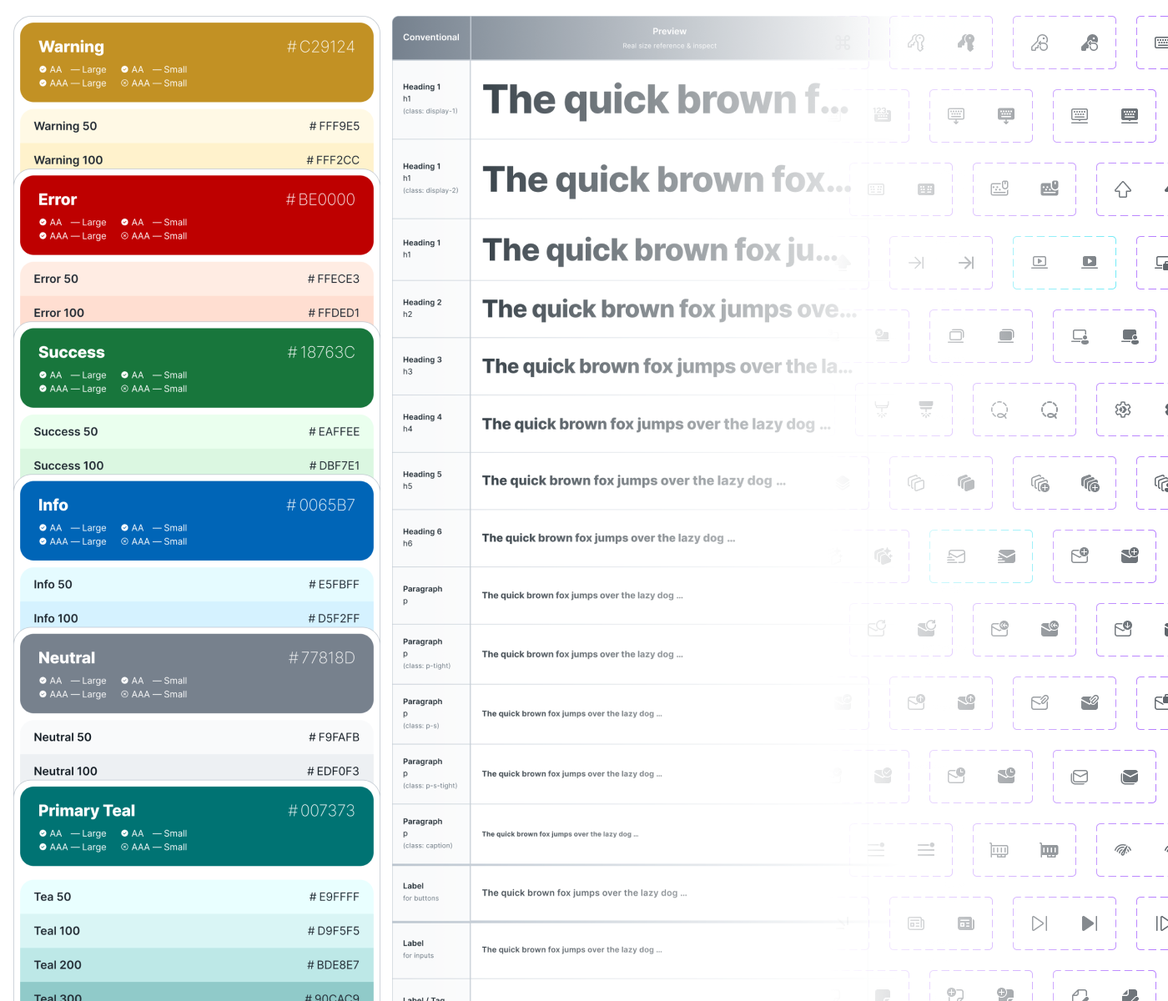
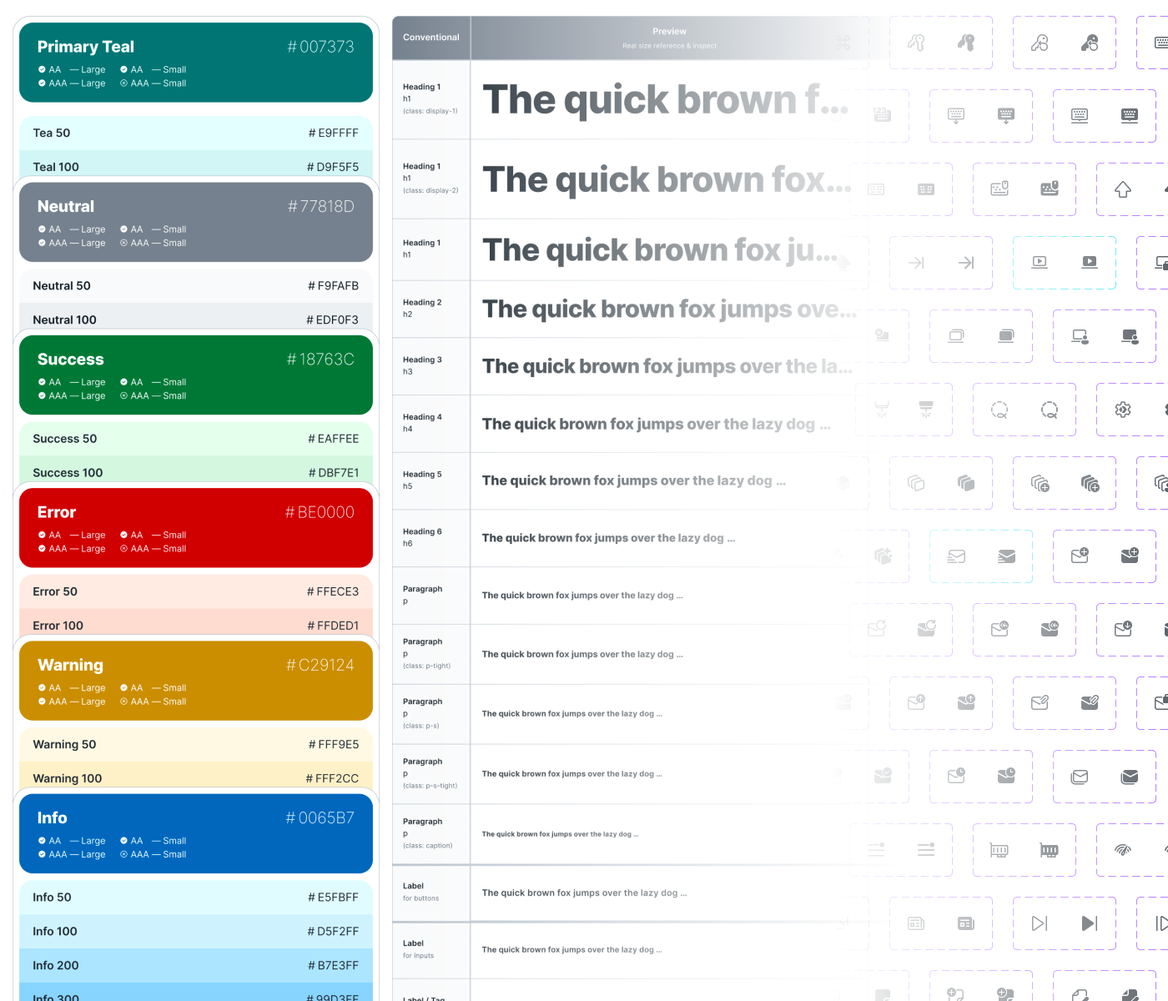
Add files via upload

Changed region(s): [[0.0, 0.0, 0.3379, 1.0]]

diff --git a/index.html b/index.html
@@ -3,7 +3,7 @@
 <head>
     <meta charset="UTF-8">
     <meta name="viewport" content="width=device-width, initial-scale=1.0">
-    <title>Rich Edwards - DesignOps Manager</title>
+    <title>Richard Edwards - DesignOps Manager</title>
     
     <!-- Tailwind CSS + DaisyUI -->
     <link href="https://cdn.jsdelivr.net/npm/daisyui@4.4.2/dist/full.min.css" rel="stylesheet" type="text/css" />
@@ -35,18 +35,20 @@
                     <li><a href="#about">About</a></li>
                     <li><a href="#experience">Experience</a></li>
                     <li><a href="#featuredworkflow">Featured Workflow</a></li>
-                    <li><a href="#portfolio">Portfolio</a></li>
+                    <li><a href="#dsportfolio">Design System Portfolio</a></li>
+                    <li><a href="#uxportfolio">UX Design Portfolio</a></li>
                     <li><a href="#contact">Contact</a></li>
                 </ul>
             </div>
-            <a class="btn btn-ghost text-xl font-bold">Rich Edwards</a>
+            <a href="#" class="btn btn-ghost text-xl font-bold" alt="Richard Edwards - Go to top of page" title="Go to top of page" onclick="window.scrollTo({top: 0, behavior: 'smooth'}); return false;">Richard Edwards</a>
         </div>
         <div class="navbar-center hidden lg:flex">
             <ul class="menu menu-horizontal px-1">
                 <li><a href="#about" class="hover:text-primary">About</a></li>
                 <li><a href="#experience" class="hover:text-primary">Experience</a></li>
                 <li><a href="#featuredworkflow" class="hover:text-primary">Featured Workflow</a></li>
-                <li><a href="#portfolio" class="hover:text-primary">Portfolio</a></li>
+                <li><a href="#dsportfolio" class="hover:text-primary">Design System Portfolio</a></li>
+                <li><a href="#uxportfolio" class="hover:text-primary">UX Design Portfolio</a></li>
                 <li><a href="#contact" class="hover:text-primary">Contact</a></li>
             </ul>
         </div>
@@ -66,7 +68,7 @@
                     </div>
                 </div>
                 <h1 class="text-5xl md:text-7xl font-bold mb-6">
-                    Rich Edwards
+                    Richard Edwards
                 </h1>
                 <p class="text-xl md:text-2xl mb-4 font-light">
                     DesignOps Manager | UX & Design Systems Leader
@@ -89,11 +91,11 @@
 
     <!-- About Section -->
     <section id="about" class="py-20 bg-base-100">
-        <div class="container mx-auto px-4">
+        <div class="max-w-6xl mx-auto px-4">
             <div class="text-center mb-16">
                 <h2 class="text-4xl font-bold mb-4">About Me</h2>
                 <p class="text-lg text-base-content/80 max-w-2xl mx-auto">
-                    Two decades of transforming design chaos into streamlined excellence
+                    Two decades of transforming fragmented design processes into streamlined excellence
                 </p>
             </div>
             
@@ -104,7 +106,7 @@
                             With over 20 years in the UX field, I've seen the evolution from individual designers working in silos to today's collaborative, system-driven approach. My expertise lies in building the bridges between creative vision and operational excellence.
                         </p>
                         <p class="text-lg leading-relaxed">
-                            I specialize in establishing design systems that don't just look good on paper, but actually get used. My approach focuses on creating frameworks that improve team efficiency while maintaining the design quality and consistency that users deserve.
+                            I specialise in establishing design systems that don't just look good on paper, but actually get used. My approach focuses on creating frameworks that improve team efficiency while maintaining the design quality and consistency that users deserve.
                         </p>
                     </div>
                     
@@ -140,8 +142,8 @@
                         <div class="flex items-start gap-3">
                             <div class="badge badge-accent badge-lg">✦</div>
                             <div>
-                                <h4 class="font-semibold">Process Optimization</h4>
-                                <p class="text-sm text-base-content/80">Streamlining workflows to maximize creativity and minimise friction</p>
+                                <h4 class="font-semibold">Process Optimisation</h4>
+                                <p class="text-sm text-base-content/80">Streamlining workflows to maximise creativity and minimise friction</p>
                             </div>
                         </div>
                         <div class="flex items-start gap-3">
@@ -159,7 +161,7 @@
 
     <!-- Experience Section -->
     <section id="experience" class="py-20 bg-base-200">
-        <div class="container mx-auto px-4">
+        <div class="max-w-6xl mx-auto px-4">
             <div class="text-center mb-16">
                 <h2 class="text-4xl font-bold mb-4">Experience Highlights</h2>
                 <p class="text-lg text-base-content/80 max-w-2xl mx-auto">
@@ -266,7 +268,7 @@
 
     <!-- Featured Workflow Section -->
     <section id="featuredworkflow" class="py-20 bg-base-100">
-        <div class="container mx-auto px-4">
+        <div class="max-w-6xl mx-auto px-4">
             <div class="text-center mb-16">
                 <h2 class="text-4xl font-bold mb-4">Featured Workflow</h2>
                 <p class="text-lg text-base-content/80 max-w-6xl mx-auto">
@@ -285,13 +287,13 @@
                                 <div class="badge badge-success text-white">Innovation</div><div class="badge badge-primary text-white">Breakthrough</div>
                             </h3>
                             <p class="text-base-content/80">
-                                Do organizations require bespoke design systems? While comprehensive design systems—built in Figma with foundational elements, component libraries, variables, and tokens—represent a significant investment, the answer is not necessarily.
+                                Do organisations require bespoke design systems? While comprehensive design systems—built in Figma with foundational elements, component libraries, variables, and tokens—represent a significant investment, the answer is not necessarily.
                                 <br><br>
                                 Rather than pursuing traditional custom design system development, I advocate for a more efficient approach that integrates artificial intelligence, Model Context Protocol (MCP), and intelligent design workflows.
                                 <br><br>
                                 This methodology delivers measurable advantages: reduced maintenance overhead, enhanced design consistency, automated workflows for repetitive tasks, and accelerated delivery of scalable designs, proofs of concept, and production-ready code across platforms and teams.
                                 <br><br>
-                                For organizations seeking to optimize costs, timelines, and resource allocation, I'd welcome the opportunity to discuss how this integrated approach can deliver tangible value to your operation.
+                                For organisations seeking to optimise costs, timelines, and resource allocation, I'd welcome the opportunity to discuss how this integrated approach can deliver tangible value to your operation.
                             </p>
                             <div class="card-actions justify-end">
                                 <div class="badge badge-outline">AI Integration</div>
@@ -404,7 +406,7 @@
                     <div class="card-body">
                         <h3 class="card-title">
                             UX Resources
-                            <div class="badge badge-success text-white">Playbooks and Documentation</div>
+                            <div class="badge badge-success text-white">Documentation</div>
                         </h3>
                         <p class="text-base-content/80">
                             Created how to guides, component usage guidelines, playbooks and accessibility standards.
@@ -417,31 +419,28 @@
                     </div>
                 </div>
             </div>
+        </div>
+    </section>
 
-                    <!-- Portfolio Gallery Section -->
-                    </div>
-                </div>
-            </section>
-        
-            <!-- Portfolio Section -->
-            <section id="portfolio" class="py-20 bg-base-200">
-                <div class="container mx-auto px-4">
-                    <div class="text-center mb-12">
-                <h2 class="text-4xl font-bold mb-4">Portfolio Gallery</h2>
+    <!-- Portfolio Section -->
+    <section id="dsportfolio" class="py-20 bg-base-200">
+        <div class="max-w-6xl mx-auto px-4">
+                <div class="text-center mb-12">
+                <h2 class="text-4xl font-bold mb-4">Design System Portfolio</h2>
                 <p class="text-lg text-base-content/80 max-w-6xl mx-auto">
                     Visual examples of my work across design systems, UX projects, and process improvements
                 </p>
             </div>
             
-            <div class="w-full max-w-[1400px] mx-auto space-y-12">
+            <div class="w-full max-w-[960px] mx-auto space-y-12">
                 <!-- Portfolio Image 1 -->
                 <div class="space-y-4">
                     <div class="text-center">
                         <h3 class="text-2xl font-bold mb-2">Design Principles</h3>
-                        <p class="text-base-content/80 max-w-6xl mx-auto">Created 6 design principles to guide the development of user-centered products.</p>
+                        <p class="text-base-content/80 max-w-6xl mx-auto">Created 6 design principles to guide the development of user-centred products.</p>
                     </div>
-                    <div class="group cursor-pointer">
-                        <div class="w-full h-[300px] md:h-[600px] lg:h-[1200px] rounded-xl overflow-hidden shadow-lg hover:shadow-xl transition-all duration-300 group-hover:scale-[1.01]">
+                    <div class="group">
+                        <div class="w-full rounded-xl overflow-hidden shadow-lg">
                             <img src="images/6designprinciples.png" alt="Button types and states - Design System Components showing primary, secondary, tertiary, ghost, and destructive button variants in default, hover, focused, and disabled states" class="w-full h-full object-cover" loading="lazy" />
                         </div>
                     </div>
@@ -453,8 +452,8 @@
                         <h3 class="text-2xl font-bold mb-2">Design System Foundations</h3>
                         <p class="text-base-content/80 max-w-6xl mx-auto">Foundations are the essential building blocks of a design system, including colours, typography, iconography, spacing, and layout.</p>
                     </div>
-                    <div class="group cursor-pointer">
-                        <div class="w-full h-[300px] md:h-[600px] lg:h-[1136px] rounded-xl overflow-hidden shadow-lg hover:shadow-xl transition-all duration-300 group-hover:scale-[1.01]">
+                    <div class="group">
+                        <div class="w-full rounded-xl overflow-hidden shadow-lg">
                             <img src="images/foundations.png" alt="Button types and states - Design System Components showing primary, secondary, tertiary, ghost, and destructive button variants in default, hover, focused, and disabled states" class="w-full h-full object-cover" loading="lazy" />
                         </div>
                     </div>
@@ -463,12 +462,12 @@
                 <!-- Portfolio Image 3 -->
                 <div class="space-y-4">
                     <div class="text-center">
-                        <h3 class="text-2xl font-bold mb-2">User Research Insights</h3>
-                        <p class="text-base-content/80 max-w-6xl mx-auto">Data visualisation and user journey mapping based on extensive research findings, informing design decisions and strategy.</p>
+                        <h3 class="text-2xl font-bold mb-2">Component Examples</h3>
+                        <p class="text-base-content/80 max-w-6xl mx-auto">Built with the Atomic Design Methodology, Atoms, molecules, organisms, templates, and pages</p>
                     </div>
-                    <div class="group cursor-pointer">
-                        <div class="w-full h-[300px] md:h-[600px] lg:h-[1200px] rounded-xl overflow-hidden shadow-lg hover:shadow-xl transition-all duration-300 group-hover:scale-[1.01]">
-                            <img src="images/portfolio-02.jpg" alt="Button types and states - Design System Components showing primary, secondary, tertiary, ghost, and destructive button variants in default, hover, focused, and disabled states" class="w-full h-full object-cover" loading="lazy" />
+                    <div class="group">
+                        <div class="w-full rounded-xl overflow-hidden shadow-lg">
+                            <img src="images/components-2.png" alt="Button types and states - Design System Components showing primary, secondary, tertiary, ghost, and destructive button variants in default, hover, focused, and disabled states" class="w-full h-full object-cover" loading="lazy" />
                         </div>
                     </div>
                 </div>
@@ -476,12 +475,12 @@
                 <!-- Portfolio Image 4 -->
                 <div class="space-y-4">
                     <div class="text-center">
-                        <h3 class="text-2xl font-bold mb-2">UX design KPS Dashboard - Built with AI (30 min)</h3>
-                        <p class="text-base-content/80 max-w-6xl mx-auto">Leveraged Claude to develop a comprehensive prompt for constructing a UX design dashboard tailored to KPS requirements. The dashboard effectively visualizes key performance metrics and actionable insights while adhering to the prescribed design system standards. Through iterative prompting, Claude successfully generated a production-ready proof of concept in approximately 30 minutes, demonstrating the efficiency of AI-assisted design workflows.</p>
+                        <h3 class="text-2xl font-bold mb-2">More Component Examples</h3>
+                        <p class="text-base-content/80 max-w-6xl mx-auto">Carefully crafted components keeping to brand, accessibility, and usability standards.</p>
                     </div>
-                    <div class="group cursor-pointer">
-                        <div class="w-full h-[300px] md:h-[600px] lg:h-[1136px] rounded-xl overflow-hidden shadow-lg hover:shadow-xl transition-all duration-300 group-hover:scale-[1.01]">
-                            <img src="images/ux-kpi-dashboard.png" alt="Button types and states - Design System Components showing primary, secondary, tertiary, ghost, and destructive button variants in default, hover, focused, and disabled states" class="w-full h-full object-cover" loading="lazy" />
+                    <div class="group">
+                        <div class="w-full rounded-xl overflow-hidden shadow-lg">
+                            <img src="images/components-1.png" alt="Button types and states - Design System Components showing primary, secondary, tertiary, ghost, and destructive button variants in default, hover, focused, and disabled states" class="w-full h-full object-cover" loading="lazy" />
                         </div>
                     </div>
                 </div>
@@ -489,15 +488,12 @@
                 <!-- Portfolio Image 5 -->
                 <div class="space-y-4">
                     <div class="text-center">
-                        <h3 class="text-2xl font-bold mb-2">Design System Documentation</h3>
-                        <p class="text-base-content/80 max-w-6xl mx-auto">Comprehensive documentation and usage guidelines ensuring consistent implementation across teams and products.</p>
+                        <h3 class="text-2xl font-bold mb-2">Extensive Resources</h3>
+                        <p class="text-base-content/80 max-w-6xl mx-auto">Comprehensive how-to guides, playbooks, tooling and resources.</p>
                     </div>
-                    <div class="group cursor-pointer">
-                        <div class="w-full h-[300px] md:h-[600px] lg:h-[1200px] bg-gradient-to-br from-warning/20 to-warning/10 rounded-xl overflow-hidden shadow-lg hover:shadow-xl transition-all duration-300 group-hover:scale-[1.01]">
-                            <div class="w-full h-full flex items-center justify-center text-base-content/60 text-2xl font-medium">
-                                <span class="sr-only">Button Design System</span>
-                                Portfolio Image 5
-                            </div>
+                    <div class="group">
+                        <div class="w-full rounded-xl overflow-hidden shadow-lg">
+                            <img src="images/designops-site2.png" alt="Button types and states - Design System Components showing primary, secondary, tertiary, ghost, and destructive button variants in default, hover, focused, and disabled states" class="w-full h-full object-cover" loading="lazy" />
                         </div>
                     </div>
                 </div>
@@ -505,15 +501,12 @@
                 <!-- Portfolio Image 6 -->
                 <div class="space-y-4">
                     <div class="text-center">
-                        <h3 class="text-2xl font-bold mb-2">DesignOps Process Framework</h3>
-                        <p class="text-base-content/80 max-w-6xl mx-auto">Streamlined operational workflows and governance structures that scale design efficiency across multiple product teams.</p>
+                        <h3 class="text-2xl font-bold mb-2">Design System Documentation</h3>
+                        <p class="text-base-content/80 max-w-6xl mx-auto">Documentation and usage guidelines, best practices, component anatomy and examples.</p>
                     </div>
-                    <div class="group cursor-pointer">
-                        <div class="w-full h-[300px] md:h-[600px] lg:h-[1200px] bg-gradient-to-br from-error/20 to-error/10 rounded-xl overflow-hidden shadow-lg hover:shadow-xl transition-all duration-300 group-hover:scale-[1.01]">
-                            <div class="w-full h-full flex items-center justify-center text-base-content/60 text-2xl font-medium">
-                                <span class="sr-only">Design Operations Framework</span>
-                                Portfolio Image 6
-                            </div>
+                    <div class="group">
+                        <div class="w-full rounded-xl overflow-hidden shadow-lg">
+                            <img src="images/designops-site.png" alt="Button types and states - Design System Components showing primary, secondary, tertiary, ghost, and destructive button variants in default, hover, focused, and disabled states" class="w-full h-full object-cover" loading="lazy" />
                         </div>
                     </div>
                 </div>
@@ -521,69 +514,70 @@
                 <!-- Portfolio Image 7 -->
                 <div class="space-y-4">
                     <div class="text-center">
-                        <h3 class="text-2xl font-bold mb-2">Mobile Interface Design</h3>
-                        <p class="text-base-content/80 max-w-6xl mx-auto">Responsive mobile application interfaces optimised for touch interaction and cross-platform consistency.</p>
+                        <h3 class="text-2xl font-bold mb-2">Manager Resources</h3>
+                        <p class="text-base-content/80 max-w-6xl mx-auto">Everything managers need to find great talent, job descriptions, and interview guides, onboarding and offboarding guides.</p>
                     </div>
-                    <div class="group cursor-pointer">
-                        <div class="w-full h-[300px] md:h-[600px] lg:h-[1200px] bg-gradient-to-br from-primary/15 to-secondary/15 rounded-xl overflow-hidden shadow-lg hover:shadow-xl transition-all duration-300 group-hover:scale-[1.01]">
-                            <div class="w-full h-full flex items-center justify-center text-base-content/60 text-2xl font-medium">
-                                <span class="sr-only">Mobile App Interface</span>
-                                Portfolio Image 7
-                            </div>
+                    <div class="group">
+                        <div class="w-full rounded-xl overflow-hidden shadow-lg">
+                            <img src="images/manager-resources.png" alt="Button types and states - Design System Components showing primary, secondary, tertiary, ghost, and destructive button variants in default, hover, focused, and disabled states" class="w-full h-full object-cover" loading="lazy" />
                         </div>
                     </div>
                 </div>
-                
-                <!-- Portfolio Image 8 -->
-                <div class="space-y-4">
+
+            </section>
+
+            <!-- UX Design Portfolio Section with different background -->
+            <section id="uxportfolio" class="py-20 bg-base-100">
+                <div class="max-w-6xl mx-auto px-4">
+                    <div class="text-center mb-12">
+                        <h2 class="text-4xl font-bold mb-4">UX Design Portfolio</h2>
+                        <p class="text-lg text-base-content/80 max-w-6xl mx-auto">
+                            Visual examples of my work across UX design projects, user research, and usability testing
+                        </p>
+                    </div>
+                    
+                    <div class="w-full max-w-[960px] mx-auto space-y-12">
+                        <!-- Portfolio Image 8 -->
+                        <div class="space-y-4">
                     <div class="text-center">
-                        <h3 class="text-2xl font-bold mb-2">Accessibility Standards</h3>
-                        <p class="text-base-content/80 max-w-6xl mx-auto">WCAG compliance guidelines and inclusive design patterns ensuring accessibility across all user interactions and content.</p>
+                        <h3 class="text-2xl font-bold mb-2">People HR Smart Menu</h3>
+                        <p class="text-base-content/80 max-w-6xl mx-auto">A smart menu design for People HR, enhancing user navigation and accessibility.</p>
                     </div>
-                    <div class="group cursor-pointer">
-                        <div class="w-full h-[300px] md:h-[600px] lg:h-[1200px] bg-gradient-to-br from-accent/15 to-info/15 rounded-xl overflow-hidden shadow-lg hover:shadow-xl transition-all duration-300 group-hover:scale-[1.01]">
-                            <div class="w-full h-full flex items-center justify-center text-base-content/60 text-2xl font-medium">
-                                <span class="sr-only">Accessibility Guidelines</span>
-                                Portfolio Image 8
-                            </div>
+                    <div class="group">
+                        <div class="w-full rounded-xl overflow-hidden shadow-lg">
+                            <img src="images/peoplehr-smartmenu.png" alt="Button types and states - Design System Components showing primary, secondary, tertiary, ghost, and destructive button variants in default, hover, focused, and disabled states" class="w-full h-full object-cover" loading="lazy" />
                         </div>
                     </div>
-                </div>
-                
-                <!-- Portfolio Image 9 -->
-                <div class="space-y-4">
+                        </div>
+                        
+                        <!-- Portfolio Image 9 -->
+                        <div class="space-y-4">
                     <div class="text-center">
-                        <h3 class="text-2xl font-bold mb-2">Brand Identity System</h3>
-                        <p class="text-base-content/80 max-w-6xl mx-auto">Cohesive visual identity and branding guidelines that maintain consistency across all digital touchpoints and marketing materials.</p>
+                        <h3 class="text-2xl font-bold mb-2">Username & Password</h3>
+                        <p class="text-base-content/80 max-w-6xl mx-auto">This was a complex problem to solve, not all our users have access to email so we needed a way to create accounts using a username and password.</p>
                     </div>
-                    <div class="group cursor-pointer">
-                        <div class="w-full h-[300px] md:h-[600px] lg:h-[1200px] bg-gradient-to-br from-warning/15 to-error/15 rounded-xl overflow-hidden shadow-lg hover:shadow-xl transition-all duration-300 group-hover:scale-[1.01]">
-                            <div class="w-full h-full flex items-center justify-center text-base-content/60 text-2xl font-medium">
-                                <span class="sr-only">Branding and Visual Identity</span>
-                                Portfolio Image 9
-                            </div>
+                    <div class="group">
+                        <div class="w-full rounded-xl overflow-hidden shadow-lg">
+                            <img src="images/username-password.png" alt="Button types and states - Design System Components showing primary, secondary, tertiary, ghost, and destructive button variants in default, hover, focused, and disabled states" class="w-full h-full object-cover" loading="lazy" />
                         </div>
                     </div>
-                </div>
-                
-                <!-- Portfolio Image 10 -->
-                <div class="space-y-4">
+                        </div>
+                        
+                        <!-- Portfolio Image 10 -->
+                        <div class="space-y-4">
                     <div class="text-center">
-                        <h3 class="text-2xl font-bold mb-2">Data Dashboard Design</h3>
-                        <p class="text-base-content/80 max-w-6xl mx-auto">Complex data visualisation and analytics interfaces designed for clarity, usability, and actionable insights.</p>
+                        <h3 class="text-2xl font-bold mb-2">Salary Extras</h3>
+                        <p class="text-base-content/80 max-w-6xl mx-auto">New design for Salary Extras, enhancing user navigation, accessibility and user experience.</p>
                     </div>
-                    <div class="group cursor-pointer">
-                        <div class="w-full h-[300px] md:h-[600px] lg:h-[1200px] bg-gradient-to-br from-info/15 to-primary/15 rounded-xl overflow-hidden shadow-lg hover:shadow-xl transition-all duration-300 group-hover:scale-[1.01]">
-                            <div class="w-full h-full flex items-center justify-center text-base-content/60 text-2xl font-medium">
-                                <span class="sr-only">Dashboard and Analytics</span>
-                                Portfolio Image 10
-                            </div>
+                    <div class="group">
+                        <div class="w-full rounded-xl overflow-hidden shadow-lg">
+                            <img src="images/salary-extras.png" alt="Button types and states - Design System Components showing primary, secondary, tertiary, ghost, and destructive button variants in default, hover, focused, and disabled states" class="w-full h-full object-cover" loading="lazy" />
+                        </div>
+                    </div>
                         </div>
                     </div>
                 </div>
-            </div>
-        </div>
-    </section>
+            </section>
 
     <!-- Contact Section -->
     <section id="contact" class="py-20 bg-base-200">
